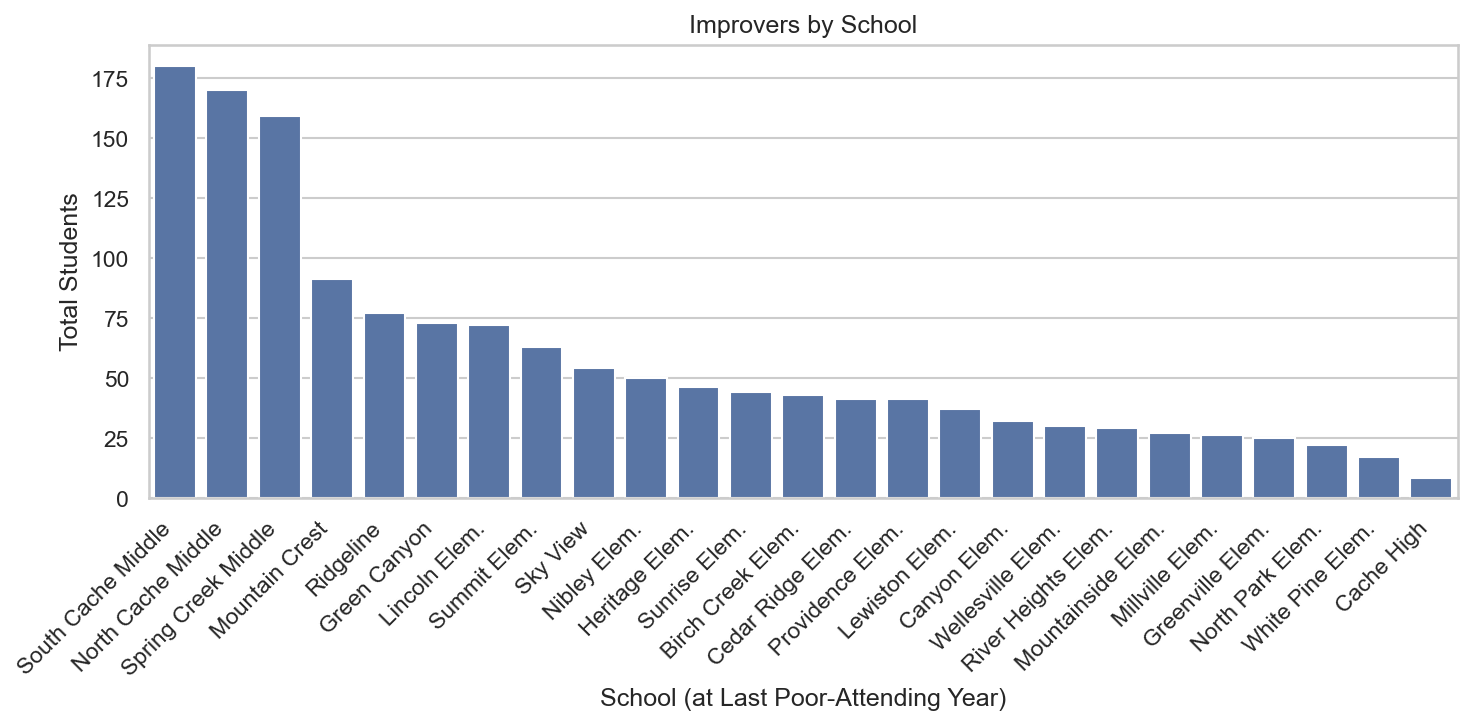
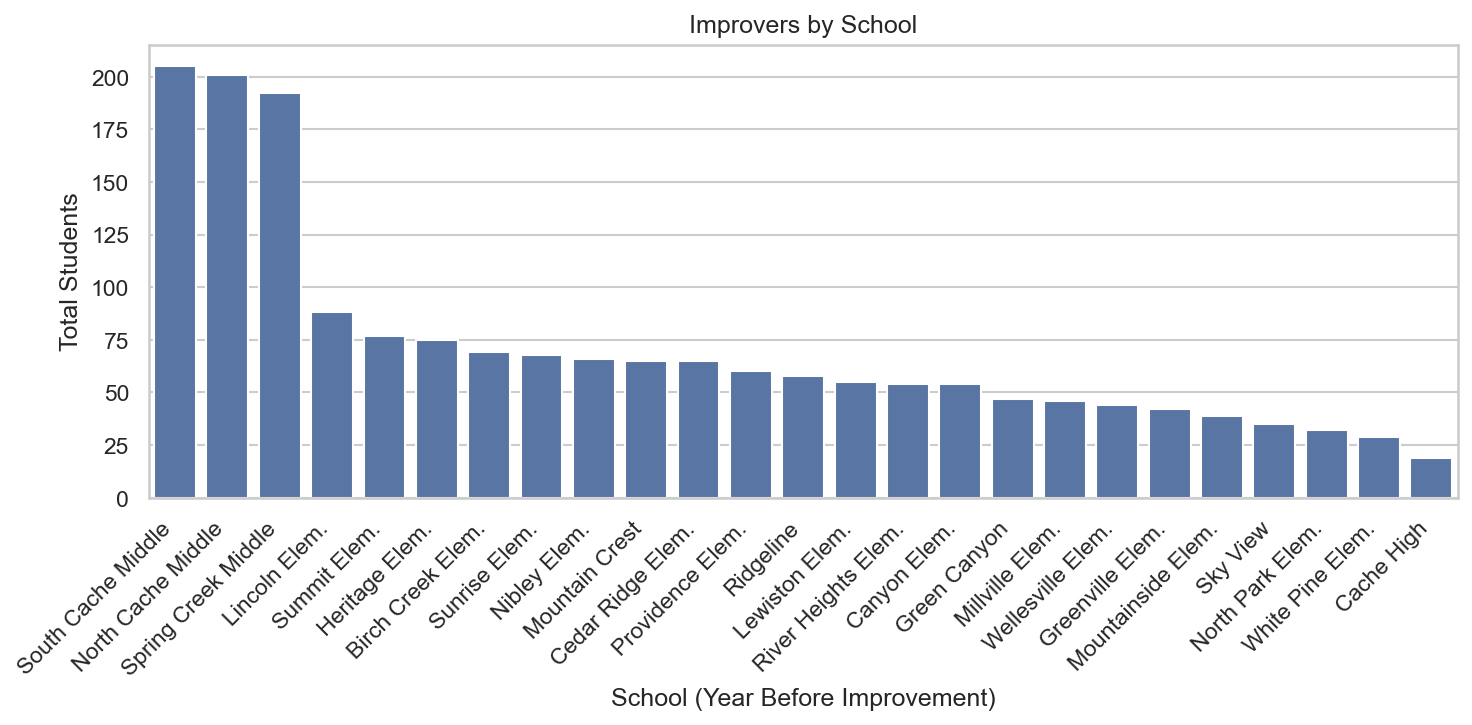
updates to 06 to impute schools, verify lowest school is picked when multiple school codes are present in a year

diff --git a/code/06_school-table.py b/code/06_school-table.py
@@ -9,7 +9,8 @@ years = [2017, 2018, 2022, 2023, 2024, 2025]
 membership_columns = {'StudentNumber': 'int32', 'SchoolNumber': 'int16'}
 date = ['CourseEntryDate']
 
-# Load the pickled data (student_tables)
+# Load the pickled data (student_tables) — Student sheet: roster/grade, no school (school comes
+# from Course Membership below).
 with open('./data/student_data.pkl', 'rb') as f:
     student_tables = pickle.load(f)
 
@@ -40,7 +41,7 @@ for year in years:
     student_table_year['year'] = student_table_year['year'].astype(int)
     membership_year['year'] = membership_year['year'].astype(int)
 
-    # Append year-specific data to the respective lists
+    # Roster: one row per student per year (school is not on the Student sheet in the pickle)
     all_membership.append(membership_year)
     all_student_tables.append(student_table_year[['student_number', 'year']])
 
@@ -49,7 +50,6 @@ for year in years:
 # Concatenate and clean the DataFrames for each dataset across all years
 membership = pd.concat(all_membership, ignore_index=True)
 student_table = pd.concat(all_student_tables, ignore_index=True)
-student_current_school = pd.concat(all_student_tables, ignore_index=True) # I will use this to create the df
 
 # Rename column names in membership table
 membership = membership.rename(columns={'StudentNumber': 'student_number', 'SchoolNumber': 'school_number'})
@@ -58,13 +58,10 @@ membership = membership.rename(columns={'StudentNumber': 'student_number', 'Scho
 membership = membership.drop_duplicates(keep='first')
 student_table = student_table.drop_duplicates(keep='first')
 
-# I want to keep one student_number per year so we can track students current_school
-student_current_school = student_current_school.drop_duplicates(subset=['student_number', 'year'], keep='first')
-
-# Create the df from the student_table and student_current_school student_numbers
-# - df: exploratory data (created from the student_current_school)
-# - model_df: model data (created from student_table)
-df = student_current_school[['student_number', 'year']].copy()
+# Exploratory student-year index from roster. School per year is resolved from Course Membership
+# later (see merge into current_schools and _pick_one_membership_row).
+# - model_df: model data (one student_number column from roster rows, then merged)
+df = student_table[['student_number', 'year']].copy()
 model_df = student_table['student_number'].copy()
 
 # Merge model_df and the membership table
@@ -110,6 +107,15 @@ school_name_map = {
     120: "Heritage Elem.", 118: "Greenville Elem.", 111: "Cedar Ridge Elem.", 109: "Canyon Elem.", 106: "Birch Creek Elem."
 }
 
+# Level buckets (align with school_name_map). Used to pick one school when Course Membership has
+# multiple SchoolNumbers in the same year (e.g. 6th grader with courses at both elem. and middle).
+# Canonical elementary school numbers (aligned with school_name_map)
+elementary_school_ids = {
+    170, 166, 164, 160, 156, 152, 144, 140, 132, 130, 128, 124, 120, 118, 111, 109, 106,
+}
+middle_school_ids = [330, 406, 410]
+high_school_ids = [710, 706, 705, 703, 702]
+
 # Function to map school number to school name, handling unknowns and zeros
 def map_school_name(x):
     # If school number is 0, return "None"
@@ -120,12 +126,57 @@ def map_school_name(x):
     return school_name_map.get(x, "Other")
 
 
+# Per-year grade (roster) — used to resolve multiple Course Membership rows (same student, same year)
+grade_rows = []
+for _y in years:
+    _g = student_tables[_y][["student_number", "GradeLevel"]].copy()
+    _g = _g.rename(columns={"GradeLevel": "current_grade"})
+    _g["year"] = _y
+    _g["current_grade"] = pd.to_numeric(_g["current_grade"], errors="coerce")
+    _g = _g.drop_duplicates(subset=["student_number", "year"], keep="first")
+    grade_rows.append(_g)
+grades_long = pd.concat(grade_rows, ignore_index=True)
+
+
+def _pick_one_membership_row(gdf: pd.DataFrame) -> pd.Series:
+    """One membership row per (student_number, year). If the EOY file lists multiple school_numbers
+    for the same year, keep the one that matches roster grade: K-6 -> elementary, 7-8 -> middle,
+    9-12 -> high; otherwise fall back to the latest CourseEntryDate. Without this, drop_duplicates
+    (keep='first') picked an arbitrary row, often middle school for 6th graders in dual-list cases.
+    """
+    if len(gdf) == 1:
+        return gdf.iloc[0]
+    g = gdf["current_grade"].iloc[0]
+    if pd.isna(g):
+        return gdf.iloc[0]
+    gi = int(g)
+    if 0 <= gi <= 6:
+        sub = gdf[gdf["school_number"].isin(elementary_school_ids)]
+    elif 7 <= gi <= 8:
+        sub = gdf[gdf["school_number"].isin(middle_school_ids)]
+    elif 9 <= gi <= 12:
+        sub = gdf[gdf["school_number"].isin(high_school_ids)]
+    else:
+        sub = gdf.iloc[0:0]
+    if not sub.empty:
+        gdf = sub
+    return gdf.sort_values("CourseEntryDate", ascending=False, na_position="last").iloc[0]
+
+
 ######################################################################################################################################################
 # Create columns current_school, schools_attended, and school_count for the df
 df = df.drop_duplicates()
 
-# Merge df with membership to get school info
+# Merge df with membership to get school info (can be >1 row per student-year)
 current_schools = pd.merge(df, membership, on=['student_number', 'year'], how='left')
+current_schools = pd.merge(current_schools, grades_long, on=['student_number', 'year'], how='left')
+
+current_schools = pd.DataFrame(
+    [
+        _pick_one_membership_row(g)
+        for _, g in current_schools.groupby(["student_number", "year"], sort=False)
+    ]
+).reset_index(drop=True)
 
 # Sort to keep the most recent year per student
 current_schools = current_schools.sort_values(by=['year'], ascending=False)
@@ -133,20 +184,54 @@ current_schools = current_schools.sort_values(by=['year'], ascending=False)
 # Rename for clarity
 current_schools = current_schools.rename(columns={'school_number': 'current_school'})
 
-# Drop duplicates to keep the most recent school per student per year
-current_schools = current_schools.drop_duplicates(subset=['student_number', 'year'])
-
 # Fill null current_school values with 0
 current_schools['current_school'] = current_schools['current_school'].fillna(0)
 
 # Apply the school name mapping to the current_school column
 current_schools['current_school'] = current_schools['current_school'].apply(map_school_name)
 
-# Create a new DataFrame to track schools_attended and school_count
-school_history = current_schools.copy()
+# All distinct school names seen for this student (membership years) — used to impute null current_school
+student_school_list = (
+    current_schools.groupby("student_number", as_index=False)["current_school"]
+    .agg(_all_schools=lambda s: sorted(pd.Series(s).dropna().unique().tolist()))
+)
+current_schools = pd.merge(current_schools, student_school_list, on="student_number", how="left")
+
+# Roster grade already on current_schools from the membership resolution merge
+
+for idx in current_schools.index:
+    cs = current_schools.at[idx, "current_school"]
+    if cs != "None":
+        continue
+    slist = current_schools.at[idx, "_all_schools"]
+    names = [str(x).strip() for x in slist if str(x).strip() and str(x).strip().lower() != "none"]
+    if not names:
+        continue
+    g = current_schools.at[idx, "current_grade"]
+    if pd.isna(g):
+        continue
+    g = int(g)
+    picked = None
+    if 0 <= g <= 6:
+        cands = [n for n in names if "elem." in n.lower()]
+        if cands:
+            picked = min(cands)
+    elif 7 <= g <= 8:
+        cands = [n for n in names if "middle" in n.lower()]
+        if cands:
+            picked = min(cands)
+    elif 9 <= g <= 12:
+        cands = [n for n in names if "elem." not in n.lower() and "middle" not in n.lower()]
+        if cands:
+            picked = min(cands)
+    if picked is not None:
+        current_schools.at[idx, "current_school"] = picked
+
+current_schools = current_schools.drop(columns=["_all_schools", "current_grade"])
+
+# DataFrame: schools_attended and school_count (from imputed current_school)
 school_history = (
-    current_schools
-    .groupby('student_number')['current_school']
+    current_schools.groupby("student_number")["current_school"]
     .agg(schools_attended=lambda x: sorted(x.unique()))
     .reset_index()
 )
@@ -171,11 +256,8 @@ df.head()
 
 ######################################################################################################################################################
 # Create two new columns: high_school and middle_school for the model_df
-# - Both are assigned based on the most recent school a student attended 
-
-# List of all middle and high school ids
-middle_school_ids = [330, 406, 410]
-high_school_ids = [710, 706, 705, 703, 702]
+# - Both are assigned based on the most recent school a student attended
+# (middle_school_ids / high_school_ids are defined with school_name_map)
 
 middle_schools = membership.copy()
 

diff --git a/code/09_attendance_q2.py b/code/09_attendance_q2.py
@@ -1,6 +1,5 @@
 from __future__ import annotations
 
-import re
 import sys
 from pathlib import Path
 
@@ -27,12 +26,6 @@ def save_fig(fig: plt.Figure, name: str) -> None:
     fig.savefig(out, dpi=150, bbox_inches="tight")
     plt.close(fig)
     print(f"Wrote {out}")
-
-
-def school_slug(name: object) -> str:
-    s = re.sub(r"[^\w\-]+", "_", str(name).strip().strip('"'), flags=re.UNICODE)
-    s = re.sub(r"_+", "_", s).strip("_")[:80]
-    return s or "unknown"
 
 
 def main() -> None:
@@ -197,7 +190,7 @@ def main() -> None:
         group_counts = group_counts.sort_values("school_group")
         fig, ax = plt.subplots(figsize=(8, 5))
         sns.barplot(data=group_counts, x="school_group", y="n", color="#55a868", ax=ax)
-        ax.set_xlabel("School Group (at Last Poor-Attending Year)")
+        ax.set_xlabel("School Group (Year Before Improvement)")
         ax.set_ylabel("Improvers / All Poor Attenders")
         ax.set_title(
             "Percentage of Improvers by School Group"
@@ -236,7 +229,7 @@ def main() -> None:
     if not improver_school_counts.empty:
         fig, ax = plt.subplots(figsize=(max(10.0, 0.35 * len(improver_school_counts)), 5))
         sns.barplot(data=improver_school_counts, x="current_school", y="n", color="#4c72b0", ax=ax)
-        ax.set_xlabel("School (at Last Poor-Attending Year)")
+        ax.set_xlabel("School (Year Before Improvement)")
         ax.set_ylabel("Total Students")
         ax.set_title(
             "Improvers by School"
@@ -342,7 +335,7 @@ def main() -> None:
         if not grade_counts.empty:
             fig, ax = plt.subplots(figsize=(9, 5))
             sns.barplot(data=grade_counts, x="grade", y="n", color="#8172b3", ax=ax)
-            ax.set_xlabel("Grade (at Last Poor-Attending Year)")
+            ax.set_xlabel("Grade (Year Before Improvement)")
             ax.set_ylabel("Improvers / All Poor Attenders")
             ax.set_title("Percentage of Improvers by Grade")
             fig.tight_layout()
@@ -363,7 +356,7 @@ def main() -> None:
         if not school_counts.empty:
             fig, ax = plt.subplots(figsize=(max(10.0, 0.38 * len(school_counts)), 5))
             sns.barplot(data=school_counts, x="current_school", y="n", color="#4c72b0", ax=ax)
-            ax.set_xlabel("School (at Last Poor-Attending Year)")
+            ax.set_xlabel("School (Year Before Improvement)")
             ax.set_ylabel("Improvers / All Poor Attenders")
             ax.set_title("Percentage of Improvers by School")
             plt.setp(ax.get_xticklabels(), rotation=45, ha="right")
@@ -372,28 +365,6 @@ def main() -> None:
                 fig,
                 "percentage_of_improvers_by_school.png",
             )
-
-    # Appendix: attendance averages for each elementary school by grade.
-    # elementary = df[df["current_school"].str.lower().str.contains("elem.")].copy()
-    # for school in sorted(elementary["current_school"].unique()):
-    #     sub = elementary[elementary["current_school"] == school].copy()
-    #     sub = sub[(sub[grade_col] >= 0) & (sub[grade_col] <= 6)]
-    #     agg = (
-    #         sub.groupby(grade_col, as_index=False)["percent_days_attended"]
-    #         .mean()
-    #         .rename(columns={grade_col: "grade", "percent_days_attended": "mean_pct"})
-    #         .sort_values("grade")
-    #     )
-    #     if agg.empty:
-    #         continue
-    #     fig, ax = plt.subplots(figsize=(8, 5))
-    #     sns.barplot(data=agg, x="grade", y="mean_pct", color="#4c72b0", ax=ax)
-    #     ax.set_xlabel("Grade")
-    #     ax.set_ylabel("Mean % days attended")
-    #     ax.set_title(f"Mean attendance by grade — elementary school: {school}")
-    #     ax.set_ylim(0, 105)
-    #     fig.tight_layout()
-    #     save_fig(fig, f"eda_q2_mean_pct_by_grade_elementary_{school_slug(school)}.png")
 
 if __name__ == "__main__":
     main()
